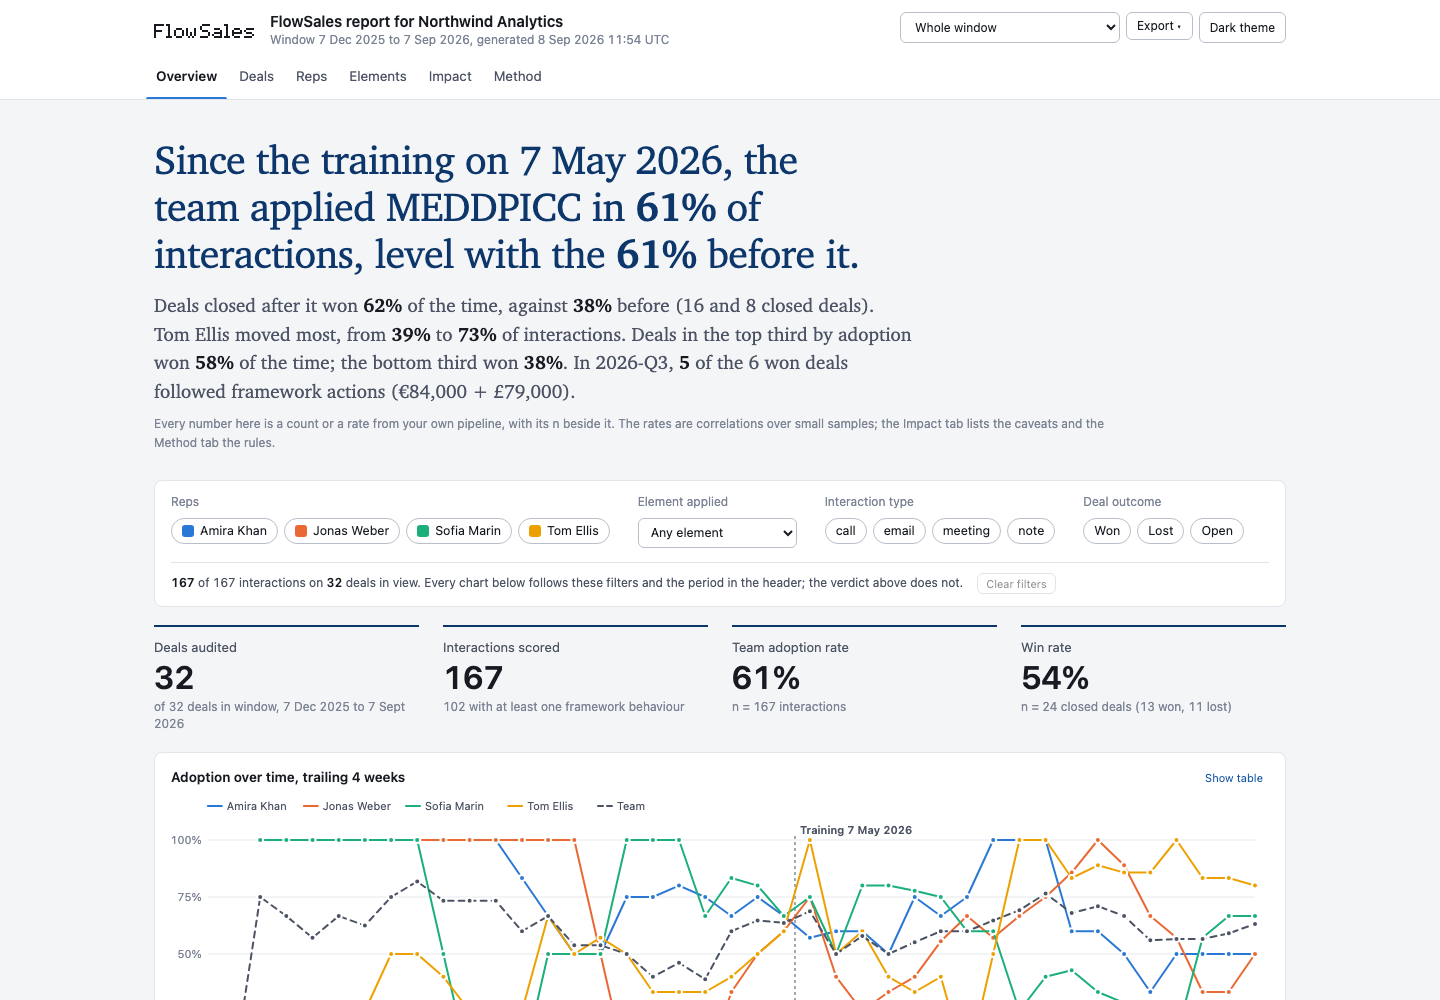
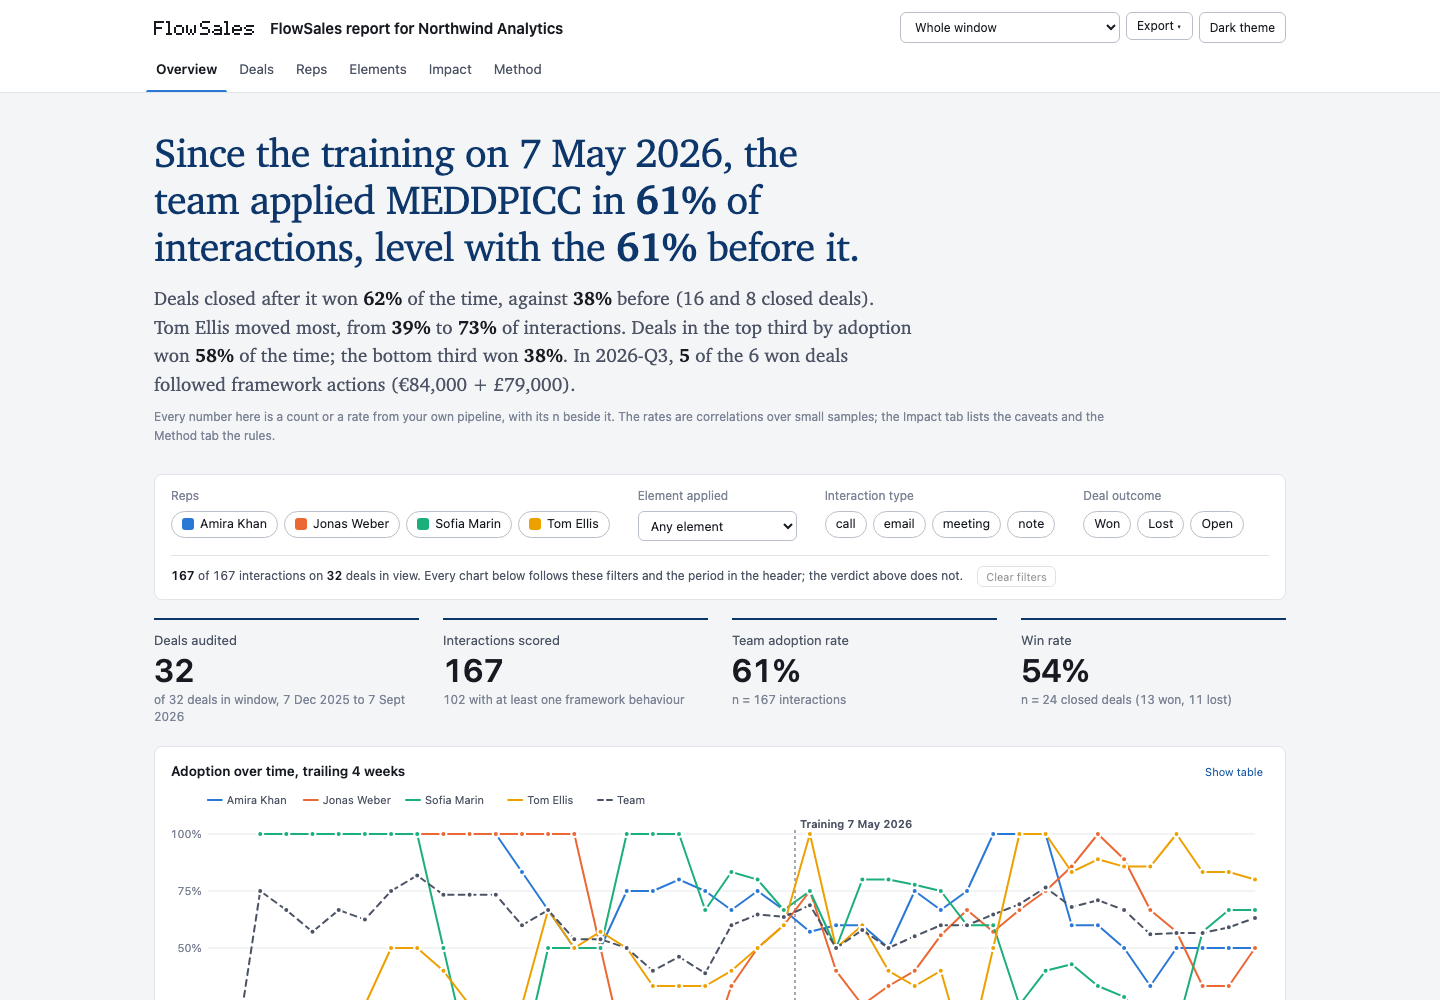
header: drop the window and generated line; the period picker and the Method tab carry the dates
Claude-Session: https://claude.ai/code/session_019eMWvxg19gKofNTaq4rmUt

diff --git a/scripts/flowsales/report/template.html b/scripts/flowsales/report/template.html
@@ -91,7 +91,7 @@ code { font-family: ui-monospace, SFMono-Regular, Menlo, Consolas, monospace; fo
 
 /* ---------- header and navigation */
 .top { position: sticky; top: 0; z-index: 30; background: var(--surface); border-bottom: 1px solid var(--rule); }
-.top-row { max-width: 1180px; margin: 0 auto; padding: 12px 24px 0; display: flex; align-items: flex-start; justify-content: space-between; gap: 16px; }
+.top-row { max-width: 1180px; margin: 0 auto; padding: 12px 24px 0; display: flex; align-items: center; justify-content: space-between; gap: 16px; }
 .brand { display: flex; align-items: center; gap: 16px; min-width: 0; }
 .mark { display: inline-block; color: var(--ink); }
 a.mark:hover svg { color: var(--accent-ink); }
@@ -99,7 +99,6 @@ a.mark:hover svg { color: var(--accent-ink); }
 .brand-text { min-width: 0; }
 .brand-text h1 { white-space: nowrap; overflow: hidden; text-overflow: ellipsis; }
 .t-short { display: none; }
-.meta { margin: 1px 0 0; color: var(--muted); font-size: 12px; white-space: nowrap; overflow: hidden; text-overflow: ellipsis; }
 .toolbar { display: flex; gap: 6px; flex-shrink: 0; }
 .btn { font: inherit; font-size: 12px; line-height: 1; padding: 7px 10px; border: 1px solid var(--rule-strong); border-radius: 6px; background: var(--surface); color: var(--ink); cursor: pointer; white-space: nowrap; }
 .btn:hover { background: var(--raised); }
@@ -412,7 +411,7 @@ ul.plain li { margin: 4px 0; max-width: 90ch; }
   .toolbar { flex: 1 1 100%; }
   .brand { gap: 12px; }
   .mark svg { height: 12px; }
-  .t-long, .meta-gen { display: none; }
+  .t-long { display: none; }
   .t-short { display: inline; }
   .toolbar .btn { padding: 7px 9px; }
   .toolbar { justify-content: flex-start; }
@@ -507,7 +506,6 @@ ul.plain li { margin: 4px 0; max-width: 90ch; }
       <a class="mark" href="https://github.com/RhysEJF/flow-sales" target="_blank" rel="noopener" aria-label="FlowSales on GitHub" title="FlowSales on GitHub">__FS_MARK__</a>
       <div class="brand-text">
         <h1><span class="t-long">__FS_TITLE__</span><span class="t-short">__FS_ORG__</span></h1>
-        <p class="meta"><span>Window __FS_WINDOW__</span><span class="meta-gen">, generated __FS_GENERATED__</span></p>
       </div>
     </div>
     <div class="toolbar">
